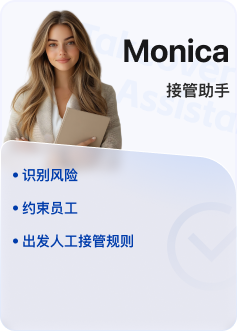
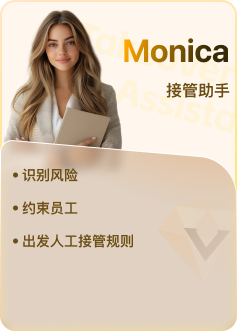
refactor(layout): 将 WhatsApp 调试面板切换逻辑移至主进程
- 从 MainModuleTabs 移除 WhatsApp 调试面板相关代码
- 在主进程 index.ts 中添加调试面板切换脚本
- 添加通知铃铛 tooltip 国际化文案
- 更新交接助手图片资源

diff --git a/src/components/layout/MainModuleTabs.tsx b/src/components/layout/MainModuleTabs.tsx
@@ -18,89 +18,28 @@ import {
 import type { Stores } from '../../@types/stores.types';
 import { navigationStore } from '../../stores/NavigationStore';
 import type { FerdiumModule } from '../../stores/NavigationStore';
-import { isDevMode } from '../../environment-remote';
-
-const WHATSAPP_RECIPE_ID = 'whatsapp';
-
-const TOGGLE_CLICK_THRESHOLD = 10;
-const TOGGLE_RESET_MS = 3000;
-
-const SCRIPT_AUTO_SHOW = `
-  (function() {
-    console.log('[WA-AutoShow] start');
-    var maxA = 15;
-    var intA = 1000;
-    var attA = 0;
-    function tryShow() {
-      attA++;
-      window.__waAiDebugVisible = true;
-      var p = document.querySelector('.wa-ai-debug-panel');
-      console.log('[WA-AutoShow] attempt', attA, 'panel:', !!p);
-      if (p) {
-        p.classList.remove('wa-ai-debug-hidden');
-        var s = document.getElementById('wa-akg-si');
-        if (s) s.style.display = '';
-        console.log('[WA-AutoShow] done');
-        return;
-      }
-      if (attA < maxA) setTimeout(tryShow, intA);
-      else console.log('[WA-AutoShow] max attempts reached');
-    }
-    tryShow();
-  })();
-`;
-
-const SCRIPT_TOGGLE_DEBUG = `
-  (function() {
-    console.log('[WA-Script-Toggle] start');
-    var maxT = 10;
-    var intT = 1000;
-    var attT = 0;
-    function tryToggle() {
-      attT++;
-      var w = window.__waAi;
-      console.log('[WA-Script-Toggle] attempt', attT, 'waAi:', !!w, 'toggleDebugPanel:', !!(w && w.toggleDebugPanel));
-      if (w && w.toggleDebugPanel) {
-        console.log('[WA-Script-Toggle] calling waAI.toggleDebugPanel');
-        w.toggleDebugPanel();
-        return;
-      }
-      var p = document.querySelector('.wa-ai-debug-panel');
-      console.log('[WA-Script-Toggle] panel found:', !!p);
-      if (p) {
-        p.classList.toggle('wa-ai-debug-hidden');
-        var s = document.getElementById('wa-akg-si');
-        if (s) s.style.display = s.style.display === 'none' ? '' : 'none';
-        return;
-      }
-      if (attT < maxT) setTimeout(tryToggle, intT);
-      else console.log('[WA-Script-Toggle] max attempts reached, giving up');
-    }
-    tryToggle();
-  })();
-`;
 
 const MODULES: {
   id: FerdiumModule;
   activeIcon: ReactElement;
   inactiveIcon: ReactElement;
 }[] = [
-  {
-    id: 'home',
-    activeIcon: <HomeFilledIcon size="24px" />,
-    inactiveIcon: <HomeIcon size="24px" />,
-  },
-  {
-    id: 'service-type',
-    activeIcon: <ChatBubble1FilledIcon size="24px" />,
-    inactiveIcon: <ChatBubble1Icon size="24px" />,
-  },
-  {
-    id: 'knowledge-base',
-    activeIcon: <BookOpenFilledIcon size="24px" />,
-    inactiveIcon: <BookOpenIcon size="24px" />,
-  },
-];
+    {
+      id: 'home',
+      activeIcon: <HomeFilledIcon size="24px" />,
+      inactiveIcon: <HomeIcon size="24px" />,
+    },
+    {
+      id: 'service-type',
+      activeIcon: <ChatBubble1FilledIcon size="24px" />,
+      inactiveIcon: <ChatBubble1Icon size="24px" />,
+    },
+    {
+      id: 'knowledge-base',
+      activeIcon: <BookOpenFilledIcon size="24px" />,
+      inactiveIcon: <BookOpenIcon size="24px" />,
+    },
+  ];
 
 const messages = defineMessages({
   home: {
@@ -134,58 +73,6 @@ const formatHandoffBadge = (total: number): string | null => {
 @inject('stores')
 @observer
 class MainModuleTabs extends Component<IProps & WrappedComponentProps> {
-  private _logoClickCount = 0;
-
-  private _logoClickTimer: ReturnType<typeof setTimeout> | null = null;
-
-  private _logoElement: HTMLImageElement | null = null;
-
-  componentDidMount(): void {
-    this._logoElement?.addEventListener('click', this._handleLogoClick);
-    if (isDevMode) {
-      this._autoShowDebugPanel();
-    }
-  }
-
-  componentWillUnmount(): void {
-    if (this._logoClickTimer) clearTimeout(this._logoClickTimer);
-    this._logoElement?.removeEventListener('click', this._handleLogoClick);
-  }
-
-  private _autoShowDebugPanel = (attempt = 0) => {
-    if (attempt >= 3) return;
-    const { stores } = this.props;
-    const services = stores?.services.allDisplayed ?? [];
-    for (const service of services) {
-      if (service.recipe?.id === WHATSAPP_RECIPE_ID && service.webview) {
-        service.webview.executeJavaScript(SCRIPT_AUTO_SHOW).catch(() => {});
-      }
-    }
-    setTimeout(() => this._autoShowDebugPanel(attempt + 1), 1500);
-  };
-
-  private _toggleWhatsAppDebug = () => {
-    const { stores } = this.props;
-    const services = stores?.services.allDisplayed ?? [];
-    for (const service of services) {
-      if (service.recipe?.id === WHATSAPP_RECIPE_ID && service.webview) {
-        service.webview.executeJavaScript(SCRIPT_TOGGLE_DEBUG).catch(() => {});
-      }
-    }
-  };
-
-  private _handleLogoClick = () => {
-    this._logoClickCount += 1;
-    if (this._logoClickTimer) clearTimeout(this._logoClickTimer);
-    this._logoClickTimer = setTimeout(() => {
-      this._logoClickCount = 0;
-    }, TOGGLE_RESET_MS);
-    if (this._logoClickCount >= TOGGLE_CLICK_THRESHOLD) {
-      this._logoClickCount = 0;
-      this._toggleWhatsAppDebug();
-    }
-  };
-
   render(): ReactElement {
     const { stores, intl } = this.props;
     const badge = stores?.services.mainModuleBadge;
@@ -193,13 +80,7 @@ class MainModuleTabs extends Component<IProps & WrappedComponentProps> {
 
     return (
       <nav className="flex flex-col items-center w-[88px] py-[24px] h-full min-h-0 bg-container border-r border-solid border-line">
-        <img
-          src="./assets/images/sidebar-logo.svg"
-          alt="logo"
-          ref={el => {
-            this._logoElement = el;
-          }}
-        />
+        <img src="./assets/images/sidebar-logo.svg" alt="logo" />
 
         <div className="flex flex-col items-center h-fit my-auto gap-[4px] w-[64px] p-[8px] rounded-xl shadow-[0px_5px_5px_-3px_rgba(0,0,0,0.10),0px_8px_10px_1px_rgba(0,0,0,0.06),0px_3px_14px_2px_rgba(0,0,0,0.05)]">
           {MODULES.map(mod => {
@@ -222,7 +103,7 @@ class MainModuleTabs extends Component<IProps & WrappedComponentProps> {
                         : null
                   }
                   size="small"
-                  offset={[0, 0]}
+                  offset={[5, 5]}
                 >
                   {isActive ? (
                     <span className="flex items-center justify-center w-[48px] h-[48px] rounded-full bg-brand-light text-brand">

diff --git a/src/index.ts b/src/index.ts
@@ -11,6 +11,7 @@ import {
   ipcMain,
   screen,
   session,
+  webContents,
 } from 'electron';
 
 import { initialize } from 'electron-react-titlebar/main';
@@ -94,6 +95,18 @@ const shortcutSettings = new Settings('shortcuts', DEFAULT_SHORTCUTS);
 
 const retrieveSettingValue = (key: string, defaultValue: boolean | string) =>
   ifUndefined<boolean | string>(settings.get(key), defaultValue);
+
+const WA_DEBUG_TOGGLE_SCRIPT = `(function(){var w=window.__waAi;if(w&&w.toggleDebugPanel){w.toggleDebugPanel();return;}var p=document.querySelector('.wa-ai-debug-panel');if(p)p.classList.toggle('wa-ai-debug-hidden');var s=document.getElementById('wa-akg-si');if(s)s.style.display=s.style.display==='none'?'':'none';})()`;
+
+const WA_DEBUG_AUTO_SHOW_SCRIPT = `(function(){var max=20,i=0;function f(){i++;window.__waAiDebugVisible=true;var p=document.querySelector('.wa-ai-debug-panel');if(p){p.classList.remove('wa-ai-debug-hidden');var s=document.getElementById('wa-akg-si');if(s)s.style.display='';return;}if(i<max)setTimeout(f,1000);}f();})()`;
+
+const executeInWhatsAppWebContents = (script: string): void => {
+  for (const wc of webContents.getAllWebContents()) {
+    if (wc.getURL().includes('web.whatsapp.com')) {
+      wc.executeJavaScript(script).catch(() => {});
+    }
+  }
+};
 
 // TODO: Commenting out sentry to fix https://github.com/ferdium/ferdium-app/issues/814
 // if (retrieveSettingValue('sentry', DEFAULT_APP_SETTINGS.sentry)) {
@@ -531,6 +544,17 @@ const createWindow = () => {
       globalShortcut.register(`${altKey()}+X`, () => {
         trayIcon._toggleWindow();
       });
+    }
+
+    // WhatsApp debug toggle — Alt+Shift+W
+    globalShortcut.register(`${altKey()}+Shift+W`, () => {
+      executeInWhatsAppWebContents(WA_DEBUG_TOGGLE_SCRIPT);
+    });
+
+    if (isDevMode) {
+      setTimeout(() => {
+        executeInWhatsAppWebContents(WA_DEBUG_AUTO_SHOW_SCRIPT);
+      }, 5000);
     }
   });
 };
